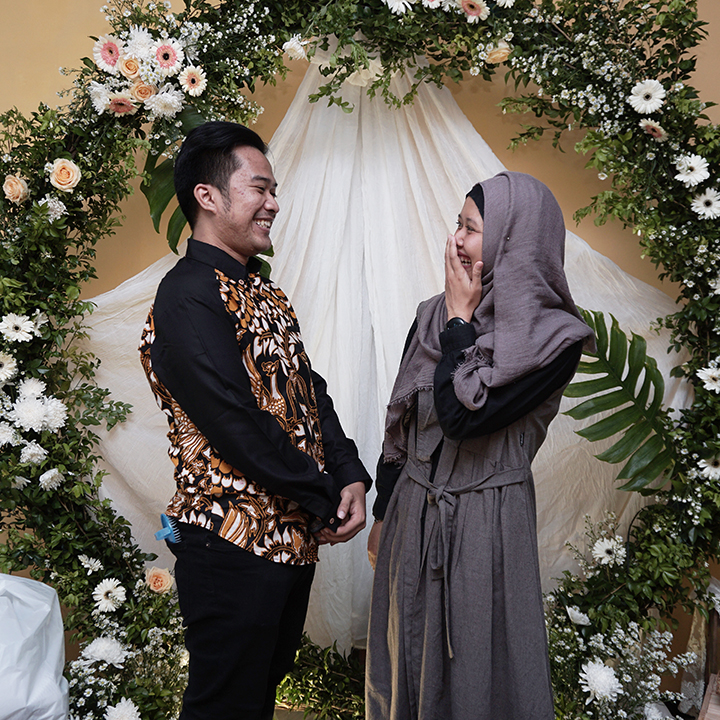
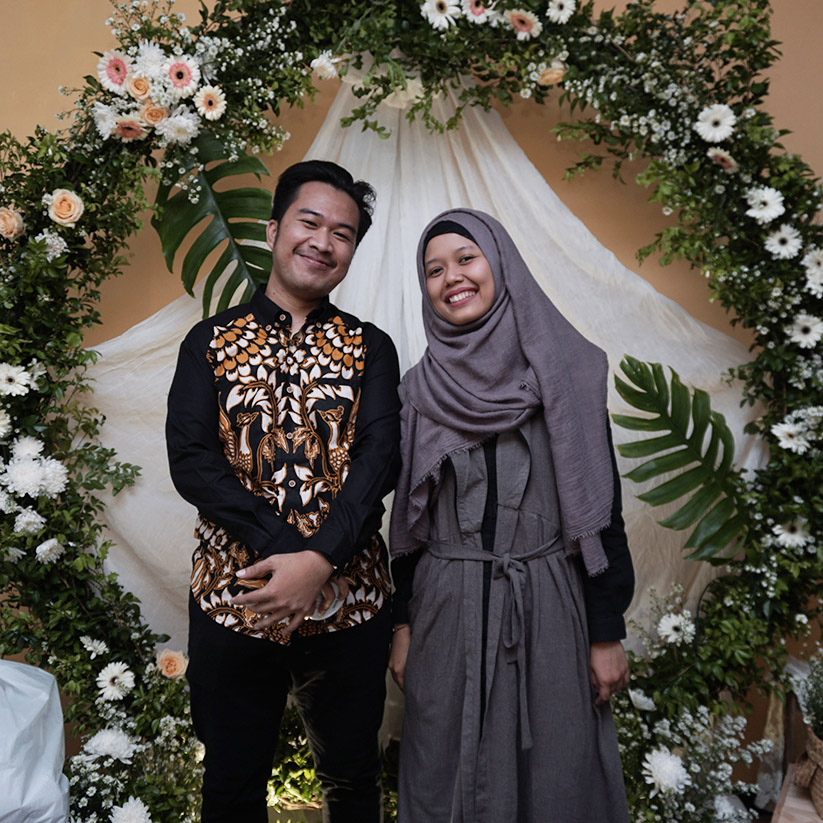
change engagement photo

diff --git a/css/menikah.css b/css/menikah.css
@@ -605,7 +605,7 @@ body.preloader-site {
   font-weight: 600;
   text-align: left;
   color: white;
-  bottom: 0;
+  align-self: end;
 }
 
 
@@ -614,5 +614,5 @@ body.preloader-site {
   margin-top: 20px;
   text-align: left;
   color: white;
-  bottom: 0;
+  align-self: end;
 }
